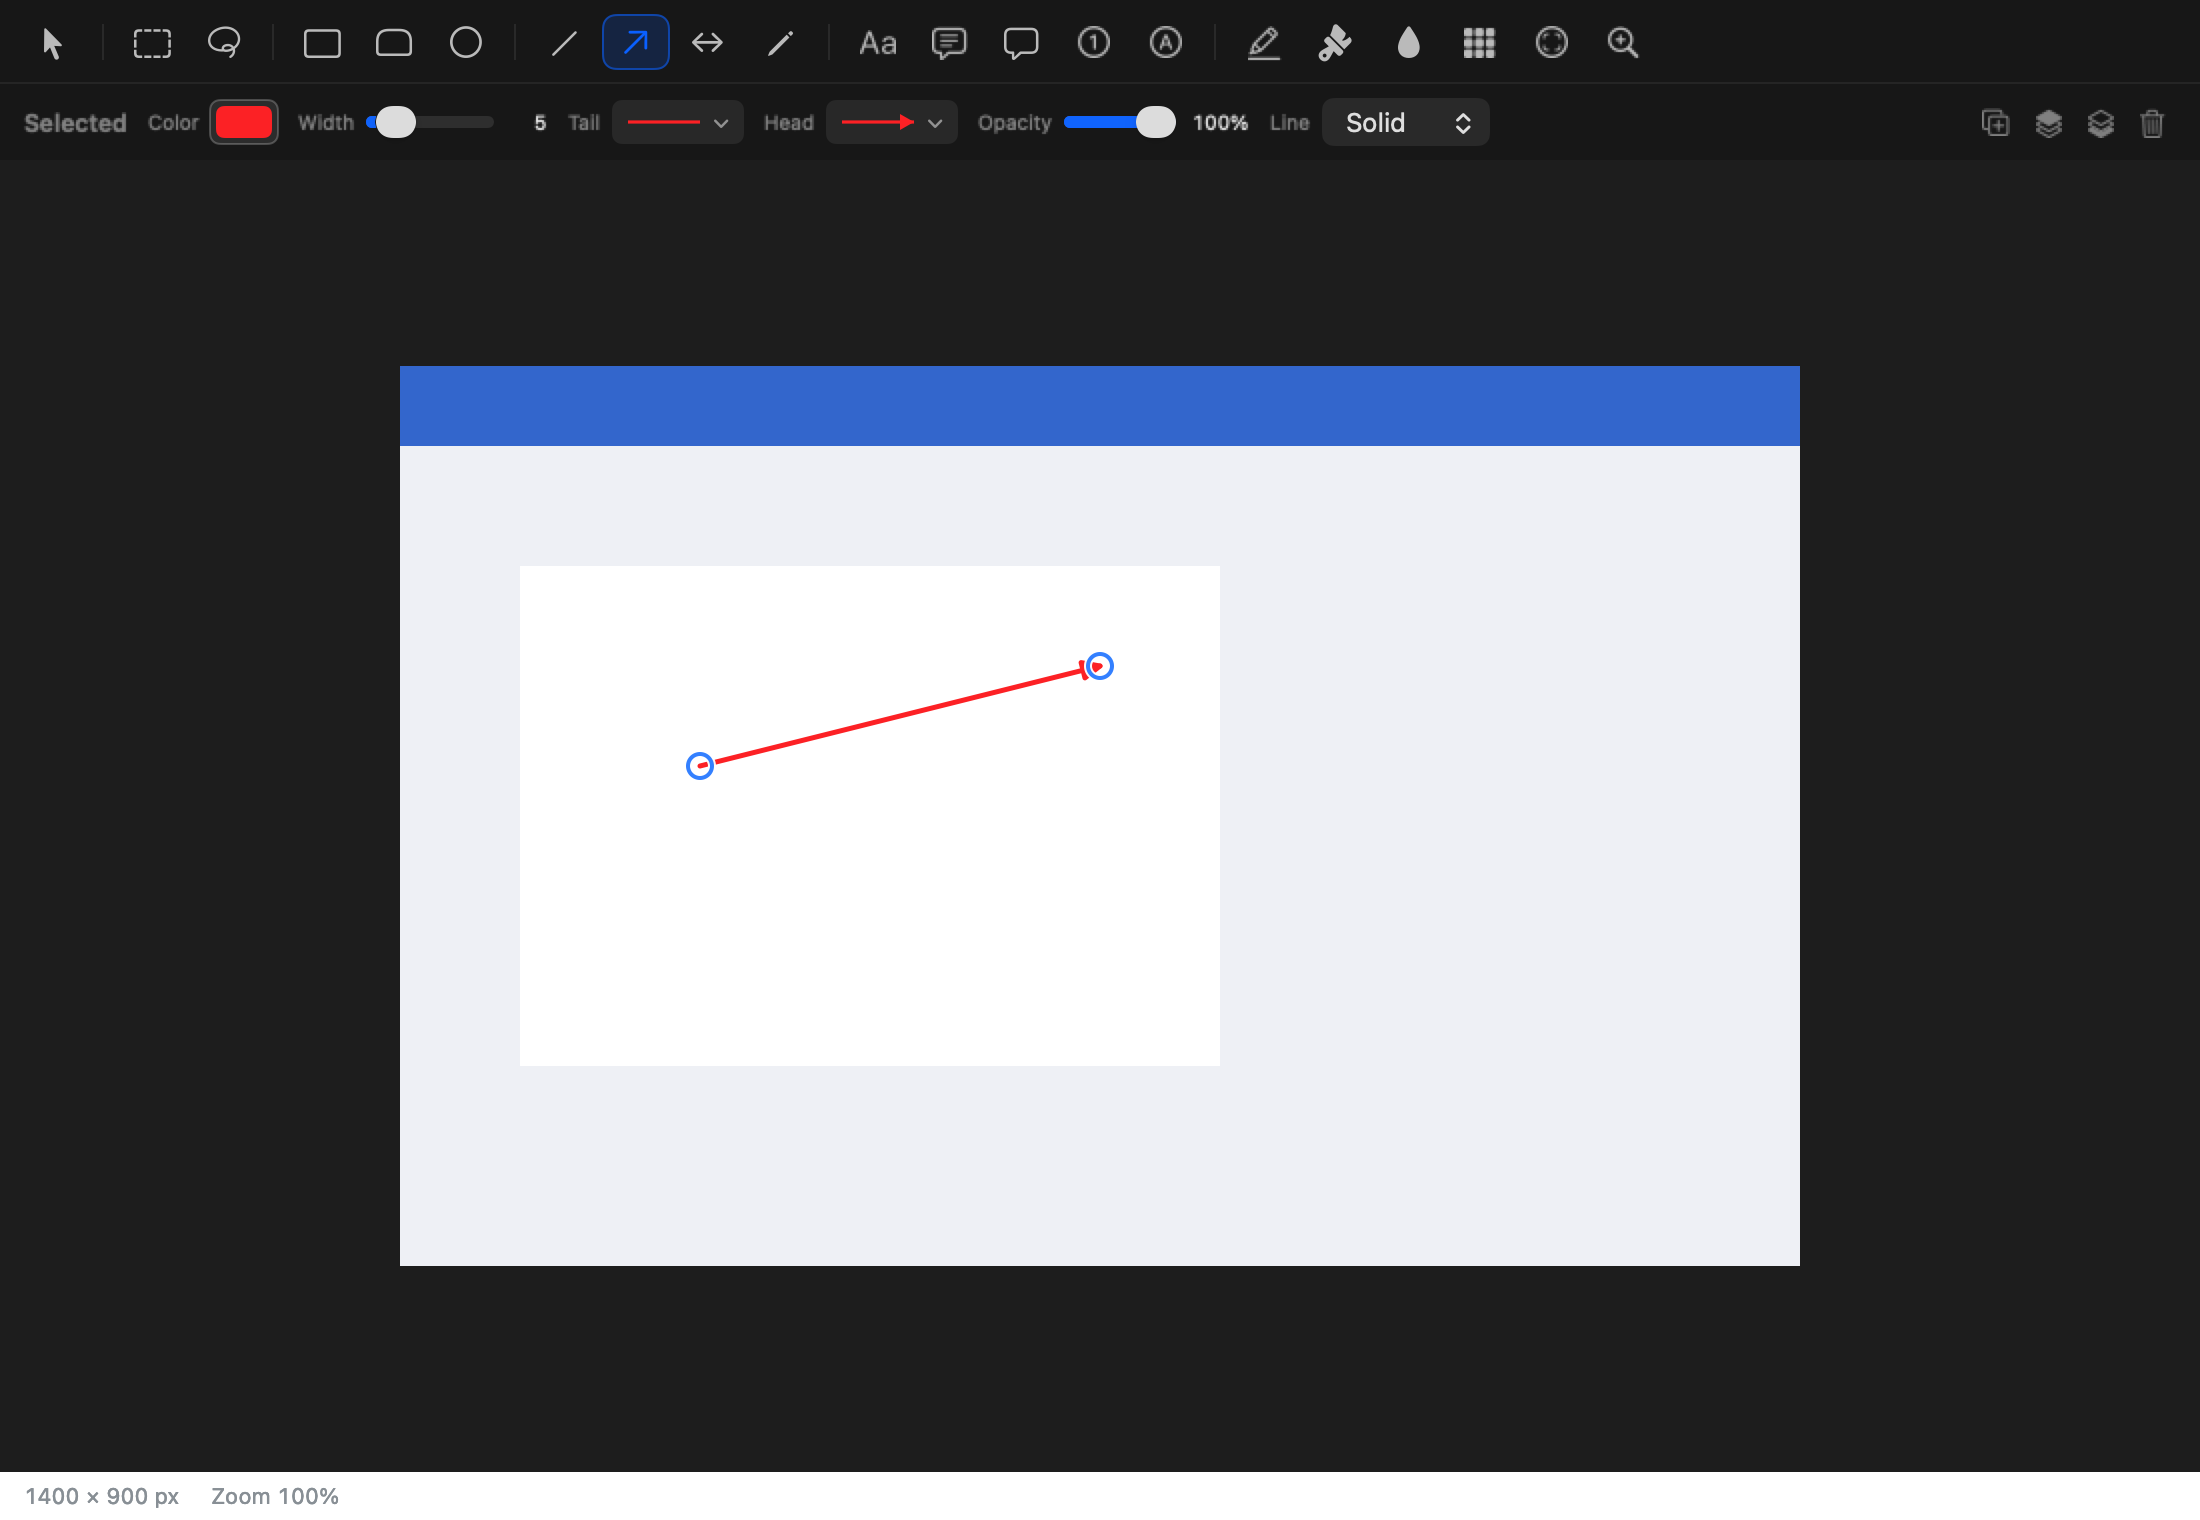
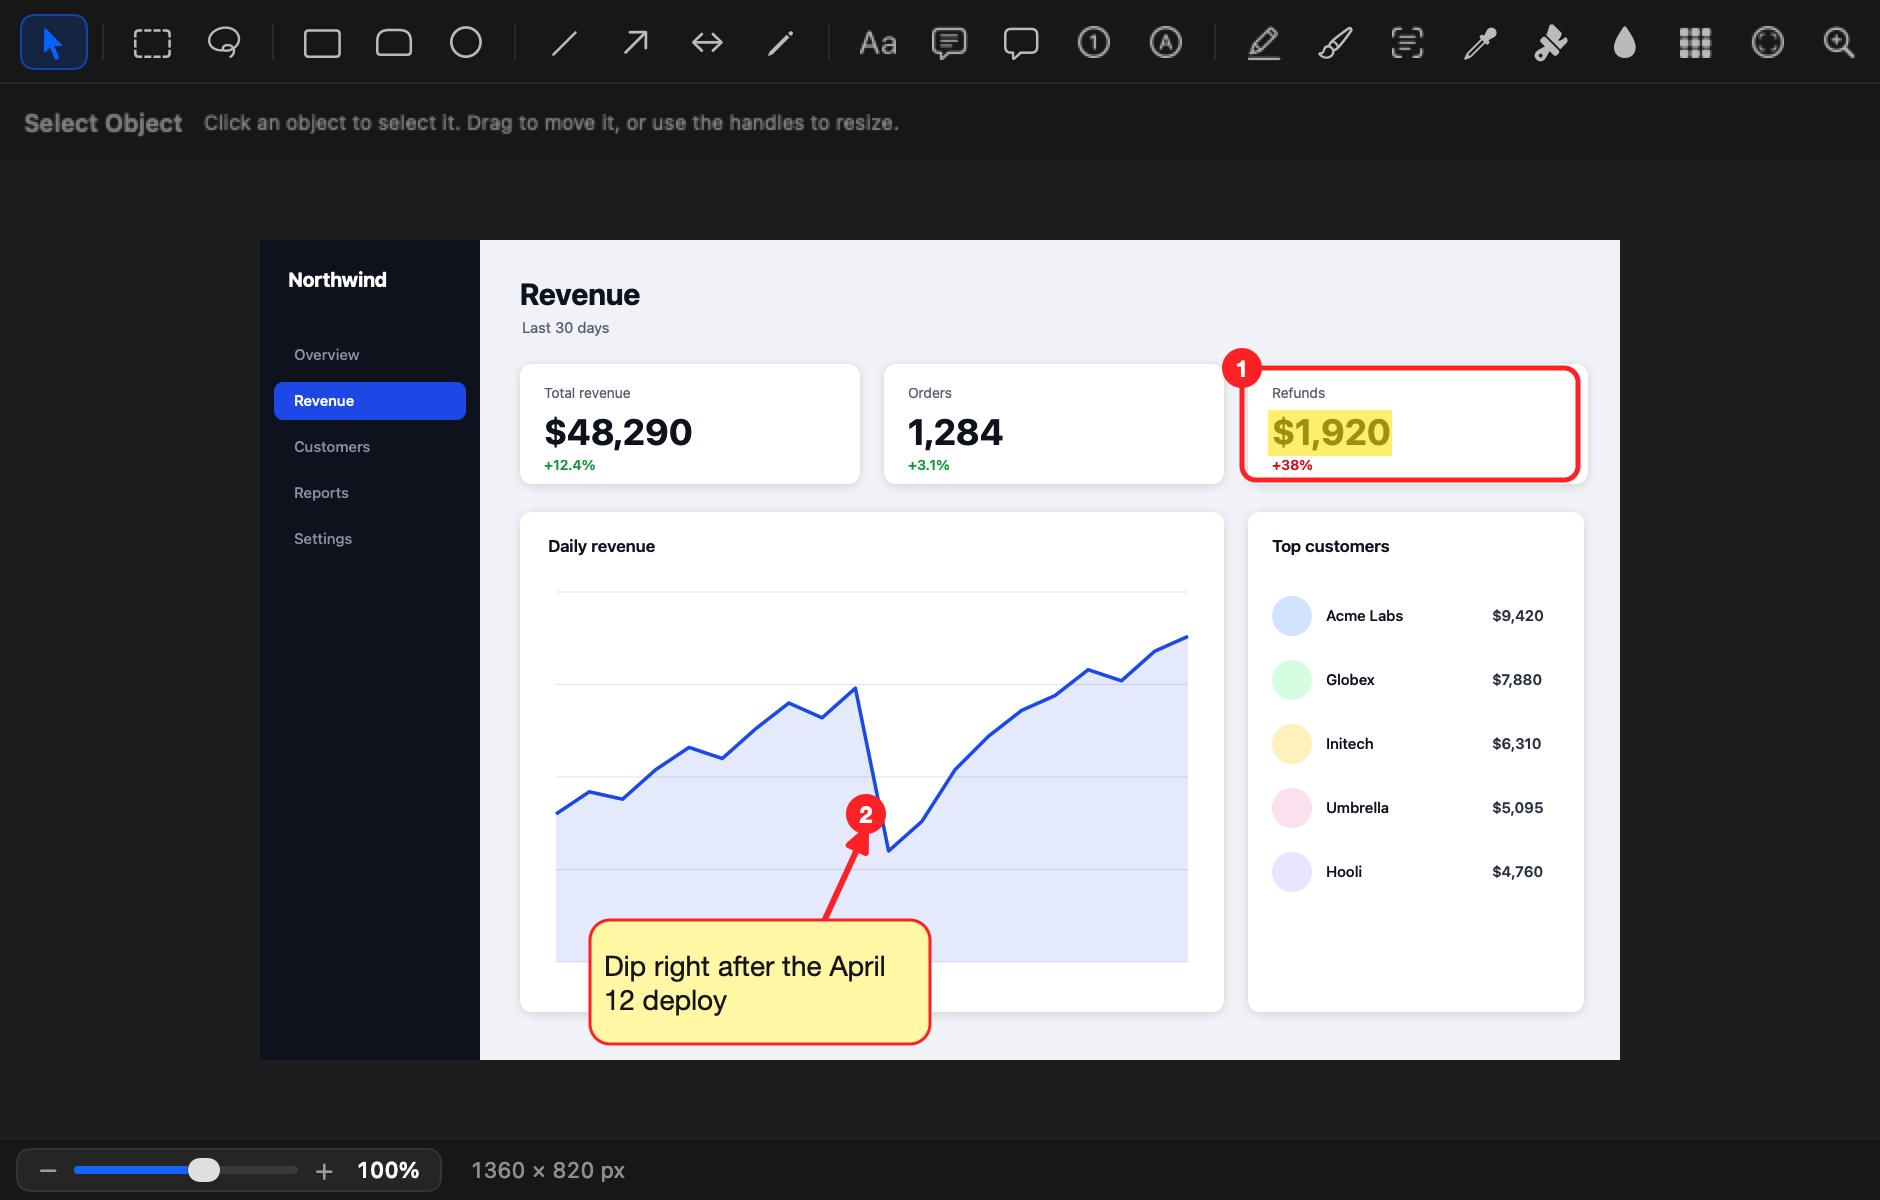
Generate README screenshots from the real editor, use version-free release file names

diff --git a/Tests/EditorUITests/ReadmeShots.swift b/Tests/EditorUITests/ReadmeShots.swift
@@ -1,0 +1,164 @@
+import AppKit
+import CoreModels
+import EditorEngine
+import Testing
+@testable import EditorUI
+
+/// Draws the README pictures from the real editor, on made-up data. Only runs when README_SHOTS_DIR is set.
+@MainActor
+struct ReadmeShots {
+    static var outputDir: String? { ProcessInfo.processInfo.environment["README_SHOTS_DIR"] }
+
+    // MARK: A made-up web app to annotate (nothing real on it)
+
+    private static func color(_ hex: String) -> NSColor {
+        let c = RGBAColor(hex: hex) ?? .black
+        return NSColor(srgbRed: c.red, green: c.green, blue: c.blue, alpha: c.alpha)
+    }
+
+    private static func text(_ s: String, at p: CGPoint, size: CGFloat, weight: NSFont.Weight = .regular, color: NSColor, mono: Bool = false) {
+        let font = mono ? NSFont.monospacedSystemFont(ofSize: size, weight: weight) : NSFont.systemFont(ofSize: size, weight: weight)
+        (s as NSString).draw(at: p, withAttributes: [.font: font, .foregroundColor: color])
+    }
+
+    /// Top-left origin, so these coordinates match the annotation coordinates.
+    private static func canvas(_ w: Int, _ h: Int, _ body: (CGContext) -> Void) -> CapturedImage {
+        let ctx = CGContext(data: nil, width: w, height: h, bitsPerComponent: 8, bytesPerRow: 0,
+                            space: CGColorSpace(name: CGColorSpace.sRGB)!, bitmapInfo: CGImageAlphaInfo.premultipliedLast.rawValue)!
+        ctx.translateBy(x: 0, y: CGFloat(h)); ctx.scaleBy(x: 1, y: -1)
+        NSGraphicsContext.saveGraphicsState()
+        NSGraphicsContext.current = NSGraphicsContext(cgContext: ctx, flipped: true)
+        body(ctx)
+        NSGraphicsContext.restoreGraphicsState()
+        return CapturedImage(cgImage: ctx.makeImage()!, scale: 1)
+    }
+
+    private static func card(_ ctx: CGContext, _ r: CGRect) {
+        ctx.saveGState()
+        ctx.setShadow(offset: CGSize(width: 0, height: -2), blur: 10, color: CGColor(gray: 0, alpha: 0.10))
+        ctx.setFillColor(CGColor(gray: 1, alpha: 1))
+        ctx.addPath(CGPath(roundedRect: r, cornerWidth: 12, cornerHeight: 12, transform: nil)); ctx.fillPath()
+        ctx.restoreGState()
+    }
+
+    static func dashboard() -> CapturedImage {
+        canvas(1360, 820) { ctx in
+            ctx.setFillColor(color("#F3F5F9").cgColor); ctx.fill(CGRect(x: 0, y: 0, width: 1360, height: 820))
+            // sidebar
+            ctx.setFillColor(color("#111827").cgColor); ctx.fill(CGRect(x: 0, y: 0, width: 220, height: 820))
+            text("Northwind", at: CGPoint(x: 28, y: 28), size: 20, weight: .bold, color: .white)
+            for (i, item) in ["Overview", "Revenue", "Customers", "Reports", "Settings"].enumerated() {
+                if i == 1 { ctx.setFillColor(color("#2563EB").cgColor); ctx.addPath(CGPath(roundedRect: CGRect(x: 14, y: 96 + CGFloat(i) * 46, width: 192, height: 38), cornerWidth: 9, cornerHeight: 9, transform: nil)); ctx.fillPath() }
+                text(item, at: CGPoint(x: 34, y: 105 + CGFloat(i) * 46), size: 15, weight: .medium, color: i == 1 ? .white : color("#9CA3AF"))
+            }
+            // header
+            text("Revenue", at: CGPoint(x: 260, y: 36), size: 30, weight: .bold, color: color("#111827"))
+            text("Last 30 days", at: CGPoint(x: 262, y: 78), size: 15, color: color("#6B7280"))
+            // stat cards
+            let stats = [("Total revenue", "$48,290", "+12.4%", "#16A34A"), ("Orders", "1,284", "+3.1%", "#16A34A"), ("Refunds", "$1,920", "+38%", "#DC2626")]
+            for (i, s) in stats.enumerated() {
+                let r = CGRect(x: 260 + CGFloat(i) * 364, y: 124, width: 340, height: 120)
+                card(ctx, r)
+                text(s.0, at: CGPoint(x: r.minX + 24, y: r.minY + 20), size: 14, color: color("#6B7280"))
+                text(s.1, at: CGPoint(x: r.minX + 24, y: r.minY + 46), size: 36, weight: .bold, color: color("#111827"))
+                text(s.2, at: CGPoint(x: r.minX + 24, y: r.minY + 92), size: 14, weight: .semibold, color: color(s.3))
+            }
+            // chart
+            let chart = CGRect(x: 260, y: 272, width: 704, height: 500)
+            card(ctx, chart)
+            text("Daily revenue", at: CGPoint(x: chart.minX + 28, y: chart.minY + 24), size: 17, weight: .semibold, color: color("#111827"))
+            let pts: [CGFloat] = [0.40, 0.46, 0.44, 0.52, 0.58, 0.55, 0.63, 0.70, 0.66, 0.74, 0.30, 0.38, 0.52, 0.61, 0.68, 0.72, 0.79, 0.76, 0.84, 0.88]
+            let plot = CGRect(x: chart.minX + 36, y: chart.minY + 80, width: chart.width - 72, height: chart.height - 130)
+            ctx.setStrokeColor(color("#E5E7EB").cgColor); ctx.setLineWidth(1)
+            for g in 0...4 { let y = plot.minY + plot.height * CGFloat(g) / 4; ctx.move(to: CGPoint(x: plot.minX, y: y)); ctx.addLine(to: CGPoint(x: plot.maxX, y: y)); ctx.strokePath() }
+            let line = CGMutablePath()
+            for (i, v) in pts.enumerated() {
+                let p = CGPoint(x: plot.minX + plot.width * CGFloat(i) / CGFloat(pts.count - 1), y: plot.maxY - plot.height * v)
+                i == 0 ? line.move(to: p) : line.addLine(to: p)
+            }
+            let area = line.mutableCopy()!
+            area.addLine(to: CGPoint(x: plot.maxX, y: plot.maxY)); area.addLine(to: CGPoint(x: plot.minX, y: plot.maxY)); area.closeSubpath()
+            ctx.setFillColor(color("#2563EB").withAlphaComponent(0.10).cgColor); ctx.addPath(area); ctx.fillPath()
+            ctx.setStrokeColor(color("#2563EB").cgColor); ctx.setLineWidth(3.5); ctx.setLineJoin(.round); ctx.addPath(line); ctx.strokePath()
+            // team card
+            let team = CGRect(x: 988, y: 272, width: 336, height: 500)
+            card(ctx, team)
+            text("Top customers", at: CGPoint(x: team.minX + 24, y: team.minY + 24), size: 17, weight: .semibold, color: color("#111827"))
+            let rows = [("Acme Labs", "$9,420"), ("Globex", "$7,880"), ("Initech", "$6,310"), ("Umbrella", "$5,095"), ("Hooli", "$4,760")]
+            for (i, r) in rows.enumerated() {
+                let y = team.minY + 84 + CGFloat(i) * 64
+                ctx.setFillColor(color(["#DBEAFE", "#DCFCE7", "#FEF3C7", "#FCE7F3", "#EDE9FE"][i]).cgColor)
+                ctx.fillEllipse(in: CGRect(x: team.minX + 24, y: y, width: 40, height: 40))
+                text(r.0, at: CGPoint(x: team.minX + 78, y: y + 10), size: 15, weight: .medium, color: color("#111827"))
+                text(r.1, at: CGPoint(x: team.maxX - 92, y: y + 10), size: 15, weight: .semibold, color: color("#374151"))
+            }
+        }
+    }
+
+    static func settingsPage() -> CapturedImage {
+        canvas(1240, 700) { ctx in
+            ctx.setFillColor(color("#F3F5F9").cgColor); ctx.fill(CGRect(x: 0, y: 0, width: 1240, height: 700))
+            text("Developer settings", at: CGPoint(x: 60, y: 44), size: 30, weight: .bold, color: color("#111827"))
+            text("Keys and contact details for this workspace", at: CGPoint(x: 62, y: 88), size: 15, color: color("#6B7280"))
+            let panel = CGRect(x: 60, y: 140, width: 1120, height: 500)
+            card(ctx, panel)
+            let fields = [("Account email", "maya.lindqvist@northwind.example"), ("Production API key", "nw_live_8fK2mQ9xTz41LcVb7sRaYp03"),
+                          ("Webhook secret", "whsec_4Jd9Pq27XnT0cVuB6eMk"), ("Billing phone", "+1 (415) 555-0137")]
+            for (i, f) in fields.enumerated() {
+                let y = panel.minY + 40 + CGFloat(i) * 110
+                text(f.0, at: CGPoint(x: panel.minX + 40, y: y), size: 14, weight: .medium, color: color("#6B7280"))
+                ctx.setFillColor(color("#F9FAFB").cgColor); ctx.setStrokeColor(color("#D1D5DB").cgColor); ctx.setLineWidth(1.5)
+                let box = CGRect(x: panel.minX + 40, y: y + 28, width: 760, height: 50)
+                ctx.addPath(CGPath(roundedRect: box, cornerWidth: 9, cornerHeight: 9, transform: nil)); ctx.drawPath(using: .fillStroke)
+                text(f.1, at: CGPoint(x: box.minX + 18, y: box.minY + 13), size: 20, weight: .regular, color: color("#111827"), mono: true)
+            }
+        }
+    }
+
+    // MARK: Rendering
+
+    private static func shoot(_ doc: EditorDocument, width: CGFloat, height: CGFloat, name: String, prepare: (EditorViewController) -> Void = { _ in }) throws {
+        let controller = EditorViewController(document: doc, settings: nil)
+        _ = controller.view
+        prepare(controller)
+        controller.view.frame = NSRect(x: 0, y: 0, width: width, height: height)
+        try UXSnapshotTests.render(controller, width: width, height: height, dark: true, name: name)
+    }
+
+    private func add(_ doc: EditorDocument, _ tool: EditorToolDescriptor, _ shape: any AnnotationShape, tweak: (inout AnnotationStyle) -> Void = { _ in }) {
+        var style = tool.defaultStyle
+        tweak(&style)
+        doc.addAnnotation(Annotation(shape: shape, style: style), select: false)
+    }
+
+    @Test func annotateShot() throws {
+        guard let dir = Self.outputDir else { return }
+        setenv("UX_PNG_DIR", dir, 1)
+        let doc = EditorDocument(original: Self.dashboard(), title: "revenue")
+        doc.startsWithFullSelection = false
+        let red = RGBAColor(hex: "#FF3B30FF")!
+        // flag the refunds spike, then point at the dip in the chart
+        add(doc, EditorToolRegistry.highlighter, HighlighterShape(rect: CGRect(x: 1008, y: 170, width: 124, height: 46)))
+        add(doc, EditorToolRegistry.rectangle, RectangleShape(rect: CGRect(x: 982, y: 128, width: 336, height: 112))) { $0.strokeColor = red; $0.lineWidth = 5; $0.cornerRadius = 14 }
+        add(doc, EditorToolRegistry.arrow, LineShape(start: CGPoint(x: 560, y: 690), end: CGPoint(x: 606, y: 590))) { $0.strokeColor = red; $0.lineWidth = 6; $0.endHead = .filled }
+        add(doc, EditorToolRegistry.callout, CalloutShape(rect: CGRect(x: 330, y: 680, width: 340, height: 124), text: "Dip right after the April 12 deploy", tip: CGPoint(x: 560, y: 700)))
+        add(doc, EditorToolRegistry.step, StepShape(center: CGPoint(x: 982, y: 128), radius: 20, number: 1))
+        add(doc, EditorToolRegistry.step, StepShape(center: CGPoint(x: 606, y: 574), radius: 20, number: 2))
+        doc.clearAnnotationSelection()
+        try Self.shoot(doc, width: 940, height: 600, name: "annotate") { $0.selectTool(id: EditorToolRegistry.pointer.id) }
+    }
+
+    @Test func hideShot() throws {
+        guard let dir = Self.outputDir else { return }
+        setenv("UX_PNG_DIR", dir, 1)
+        let doc = EditorDocument(original: Self.settingsPage(), title: "keys")
+        doc.startsWithFullSelection = false
+        // email: blur, API key: solid, webhook secret: pixelate; the phone number stays visible on purpose
+        add(doc, EditorToolRegistry.redactBrush, RedactBrushShape(points: [CGPoint(x: 128, y: 233), CGPoint(x: 500, y: 233)])) { $0.redaction = .blur; $0.lineWidth = 38; $0.strength = 14 }
+        add(doc, EditorToolRegistry.redactBrush, RedactBrushShape(points: [CGPoint(x: 128, y: 343), CGPoint(x: 500, y: 343)])) { $0.redaction = .solid; $0.lineWidth = 38; $0.strokeColor = RGBAColor(hex: "#111827FF")! }
+        add(doc, EditorToolRegistry.redactBrush, RedactBrushShape(points: [CGPoint(x: 128, y: 453), CGPoint(x: 420, y: 453)])) { $0.redaction = .pixelate; $0.lineWidth = 38; $0.strength = 12 }
+        add(doc, EditorToolRegistry.callout, CalloutShape(rect: CGRect(x: 900, y: 300, width: 250, height: 84), text: "Hidden before I share it", tip: CGPoint(x: 700, y: 343)))
+        doc.clearAnnotationSelection()
+        try Self.shoot(doc, width: 940, height: 560, name: "hide") { $0.selectTool(id: EditorToolRegistry.redactBrush.id) }
+    }
+}

diff --git a/Tests/CaptureEngineTests/ReadmeDisplayShot.swift b/Tests/CaptureEngineTests/ReadmeDisplayShot.swift
@@ -1,0 +1,52 @@
+import AppKit
+import CoreModels
+import Foundation
+import Testing
+@testable import CaptureEngine
+
+/// Draws the multi display README picture from made-up desktops. Only runs when README_SHOTS_DIR is set.
+struct ReadmeDisplayShot {
+    private func desktop(_ w: Int, _ h: Int, top: [CGFloat], bottom: [CGFloat], windows: [(CGRect, [CGFloat])]) -> CapturedImage {
+        let ctx = CGContext(data: nil, width: w, height: h, bitsPerComponent: 8, bytesPerRow: 0,
+                            space: CGColorSpace(name: CGColorSpace.sRGB)!, bitmapInfo: CGImageAlphaInfo.premultipliedLast.rawValue)!
+        let gradient = CGGradient(colorsSpace: CGColorSpace(name: CGColorSpace.sRGB), colors: [
+            CGColor(red: top[0], green: top[1], blue: top[2], alpha: 1), CGColor(red: bottom[0], green: bottom[1], blue: bottom[2], alpha: 1)] as CFArray, locations: [0, 1])!
+        ctx.drawLinearGradient(gradient, start: CGPoint(x: 0, y: CGFloat(h)), end: CGPoint(x: CGFloat(w), y: 0), options: [])
+        for (frame, rgb) in windows {
+            ctx.saveGState()
+            ctx.setShadow(offset: CGSize(width: 0, height: -10), blur: 30, color: CGColor(gray: 0, alpha: 0.35))
+            ctx.setFillColor(CGColor(red: rgb[0], green: rgb[1], blue: rgb[2], alpha: 1))
+            ctx.addPath(CGPath(roundedRect: frame, cornerWidth: 18, cornerHeight: 18, transform: nil)); ctx.fillPath()
+            ctx.restoreGState()
+            // title bar dots and a few content lines
+            for (i, c) in [[1, 0.37, 0.34], [1, 0.74, 0.18], [0.16, 0.8, 0.25]].enumerated() {
+                ctx.setFillColor(CGColor(red: CGFloat(c[0]), green: CGFloat(c[1]), blue: CGFloat(c[2]), alpha: 1))
+                ctx.fillEllipse(in: CGRect(x: frame.minX + 24 + CGFloat(i) * 28, y: frame.maxY - 40, width: 14, height: 14))
+            }
+            ctx.setFillColor(CGColor(gray: rgb[0] > 0.5 ? 0.0 : 1.0, alpha: 0.12))
+            for line in 0..<7 {
+                let width = frame.width * (0.35 + 0.5 * CGFloat((line * 37) % 10) / 10)
+                ctx.addPath(CGPath(roundedRect: CGRect(x: frame.minX + 36, y: frame.maxY - 100 - CGFloat(line) * 44, width: width, height: 16), cornerWidth: 8, cornerHeight: 8, transform: nil)); ctx.fillPath()
+            }
+        }
+        return CapturedImage(cgImage: ctx.makeImage()!, scale: 2)
+    }
+
+    @Test func displaysShot() throws {
+        guard let dir = ProcessInfo.processInfo.environment["README_SHOTS_DIR"] else { return }
+        let main = desktop(2880, 1800, top: [0.36, 0.30, 0.78], bottom: [0.93, 0.45, 0.58], windows: [
+            (CGRect(x: 220, y: 260, width: 1500, height: 1050), [0.97, 0.97, 0.99]),
+            (CGRect(x: 1250, y: 500, width: 1300, height: 900), [0.12, 0.13, 0.17]),
+        ])
+        let side = desktop(2560, 1440, top: [0.08, 0.16, 0.30], bottom: [0.12, 0.50, 0.55], windows: [
+            (CGRect(x: 200, y: 200, width: 1900, height: 1000), [0.12, 0.13, 0.17]),
+        ])
+        let pieces = [
+            DisplayComposer.Piece(bounds: CGRect(x: 0, y: 0, width: 1440, height: 900), image: main),
+            DisplayComposer.Piece(bounds: CGRect(x: 1440, y: 0, width: 1280, height: 720), image: side),
+        ]
+        let out = try #require(DisplayComposer.compose(pieces, labelled: true))
+        let rep = NSBitmapImageRep(cgImage: out.cgImage)
+        try rep.representation(using: .png, properties: [:])!.write(to: URL(fileURLWithPath: dir).appendingPathComponent("displays.png"))
+    }
+}
